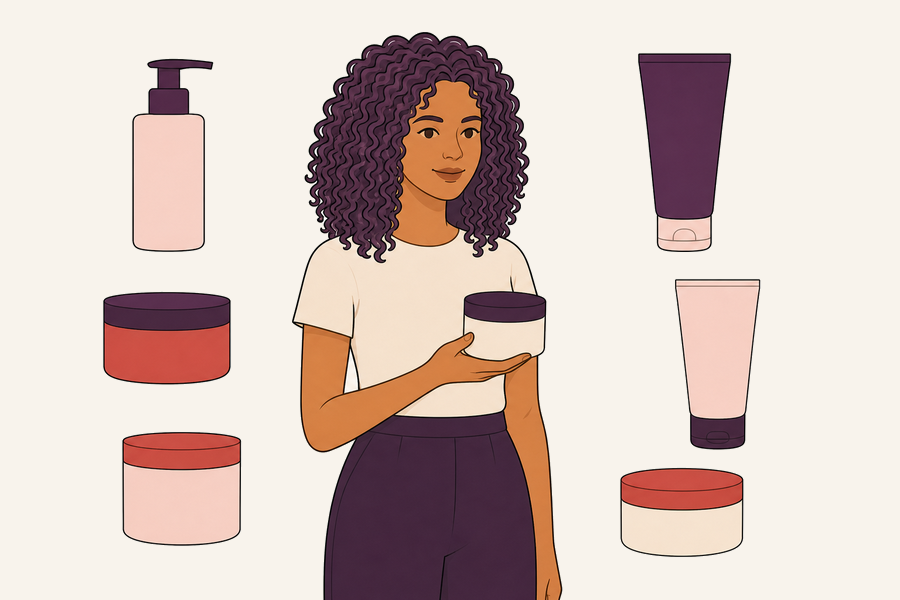
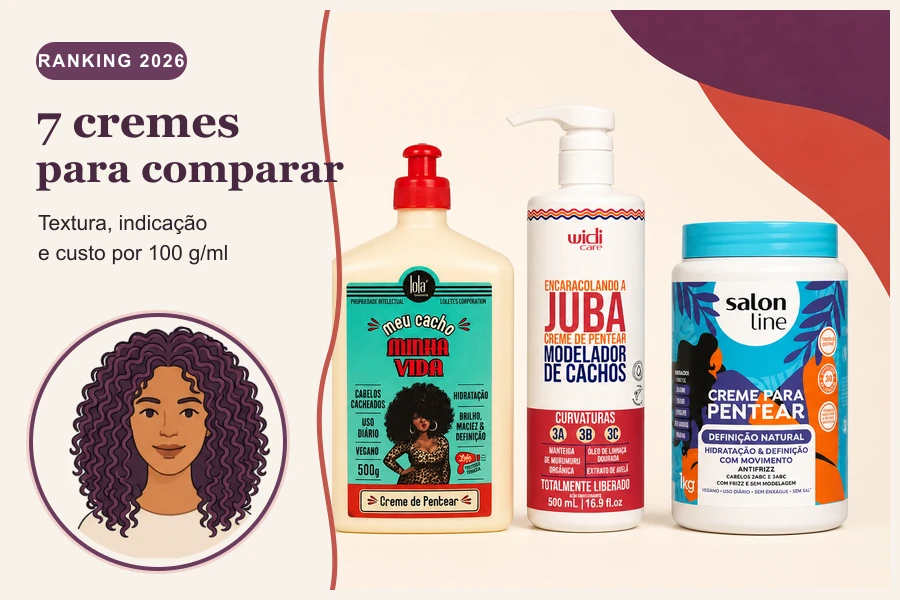
melhora imagens do ranking de cremes

diff --git a/src/data/posts/melhores-cremes-de-pentear-para-cabelo-cacheado.md b/src/data/posts/melhores-cremes-de-pentear-para-cabelo-cacheado.md
@@ -137,7 +137,7 @@ perguntas_frequentes:
 rascunho: false
 ---
 
-![Personagem cacheada da Curva Viva cercada por sete embalagens genéricas de creme de pentear](/ilustracoes/melhores-cremes-de-pentear-para-cabelo-cacheado/capa-ranking-cremes-cacheados.webp)
+![Avatar cacheada da Curva Viva ao lado das embalagens reais de Lola Meu Cacho Minha Vida, Widi Care Encaracolando a Juba e Salon Line Definição Natural](/ilustracoes/melhores-cremes-de-pentear-para-cabelo-cacheado/capa-ranking-cremes-cacheados.webp)
 
 Escolher um creme de pentear parece simples até o cabelo secar. Um produto pode desembaraçar muito bem e deixar os cachos sem sustentação. Outro pode formar mechas bonitas, mas cobrar isso em peso, rigidez ou tempo de secagem. O melhor creme não é, portanto, o pote mais conhecido nem o que reúne mais promessas na frente da embalagem. É o que combina com a espessura do fio, a quantidade de cabelo, o acabamento desejado e a sua disposição para fazer uma finalização mais ou menos detalhada.
 
@@ -175,7 +175,7 @@ Também separamos **gasto inicial** de **custo proporcional**. O Skala de 250 g 
 
 O ranking não usa quantidade de ingredientes como sinônimo de qualidade. Óleo, manteiga, extrato ou proteína ajudam a entender a proposta da fórmula, mas não permitem prever, isoladamente, definição, maciez ou peso. A avaliação mais segura começa na ficha técnica e termina com um teste controlado no próprio cabelo.
 
-![Três consistências de creme, da mais fluida à mais densa, acima de embalagens genéricas](/ilustracoes/melhores-cremes-de-pentear-para-cabelo-cacheado/escala-texturas-creme.webp)
+![Infográfico explica o que observar em cremes de textura leve, média e densa e lembra que textura não garante definição](/ilustracoes/melhores-cremes-de-pentear-para-cabelo-cacheado/escala-texturas-creme.webp)
 
 ## 1. Lola Meu Cacho Minha Vida: melhor equilíbrio geral
 
@@ -251,7 +251,7 @@ Em fios muito densos, uma fórmula direcionada a crespos pode facilitar a escolh
 
 Fio fino costuma revelar excesso cedo: perde volume, demora a secar ou forma mechas com aparência oleosa. Fio grosso pode aceitar mais cobertura, mas isso não obriga a usar um creme denso. Densidade também importa. Muito cabelo aumenta a área de distribuição, enquanto pouco cabelo pode fazer uma pequena porção render bastante.
 
-![Comparação entre fios finos, médios e grossos com uma dose inicial crescente de creme](/ilustracoes/melhores-cremes-de-pentear-para-cabelo-cacheado/quantidade-por-espessura.webp)
+![Infográfico orienta começar com pouco creme em fios finos, médios e grossos, distribuir, esperar secar e ajustar a dose](/ilustracoes/melhores-cremes-de-pentear-para-cabelo-cacheado/quantidade-por-espessura.webp)
 
 Use a ilustração como ponto de partida, não como medidor exato. Separe o cabelo úmido em seções e comece com uma porção pequena em cada uma. Se os dedos travarem ou as pontas continuarem ásperas, acrescente um pouco. Se a mecha ficar coberta por uma camada branca persistente, espalhe melhor antes de colocar mais.
 
@@ -285,7 +285,7 @@ No dia seguinte, observe se o cabelo precisa de água, uma quantidade mínima de
 
 ## Checklist antes de comprar
 
-![Quatro cartões ilustrados representam tamanho, textura, definição e ponto de atenção na escolha do creme](/ilustracoes/melhores-cremes-de-pentear-para-cabelo-cacheado/checklist-compra-creme.webp)
+![Checklist visual orienta conferir nome e tamanho, textura e uso, custo por 100 g ou ml e ponto de atenção antes da compra](/ilustracoes/melhores-cremes-de-pentear-para-cabelo-cacheado/checklist-compra-creme.webp)
 
 1. Confira o nome completo e o tamanho. Linhas com embalagens parecidas podem ter creme, ativador, condicionador e máscara.
 2. Leia a indicação oficial, mas combine-a com espessura e densidade do seu cabelo.

diff --git a/.github/INSTRUCOES-IA.md b/.github/INSTRUCOES-IA.md
@@ -96,6 +96,16 @@ ranking, em Google Imagens e em tempo de permanência.
 - Salvar em `public/ilustracoes/<slug-do-artigo>/`, em `.webp`.
 - **Toda imagem precisa de `alt` descritivo e único.**
 - Largura máxima de 1600 px e peso máximo de 200 KB por imagem.
+- **A imagem precisa ensinar ou ajudar a decidir.** Na revisão, assumir o ponto
+  de vista de uma leitora que ainda não leu o parágrafo: ela deve entender em
+  poucos segundos o que está sendo comparado e por que aquilo importa.
+- Infográfico precisa de título curto, rótulos explícitos e uma conclusão ou
+  ação prática legível no celular. Ícones sem legenda não contam como explicação.
+- Em ranking de produto, usar as embalagens reais sempre que houver imagem
+  autorizada na ficha. Nunca representar recomendações reais com potes genéricos
+  inventados por IA, porque isso reduz clareza e credibilidade.
+- Reprovar arte decorativa, confusa ou com aparência evidente de geração por IA,
+  mesmo que ela esteja tecnicamente correta e dentro da paleta.
 
 **Tudo dentro de `public/` é publicado.** Material de referência interno, folha
 de personagem e arte de trabalho não vão para lá: o lugar deles é
@@ -310,7 +320,9 @@ fontes, preço, imagem e link. Corrigir trecho confuso, repetido ou sem fonte.
 
 **Revisão 2, interesse e leitura.** Confirmar que a pergunta atrai clique
 qualificado. Conferir título, resposta inicial, naturalidade, retenção e leitura
-no celular. Melhorar se estiver robótico, genérico ou comercial demais.
+no celular. Revisar também cada imagem como leitora: sem o contexto do prompt,
+fica claro o que ela explica? Melhorar se estiver robótico, genérico, confuso ou
+comercial demais.
 
 Publicar só quando as duas revisões e todos os testes passarem.
 

diff --git a/HISTORICO.md b/HISTORICO.md
@@ -59,6 +59,10 @@ Não precisam ser rediscutidas, salvo se o proprietário mudar de ideia.
 - **Mercado Livre só pelo Chrome do proprietário.** Pesquisa de oferta, acesso
   à conta de afiliado e geração de link `meli.la` usam exclusivamente o Chrome
   já autenticado. O navegador interno do Codex não deve acessar essa conta.
+- **Imagem de artigo precisa funcionar para a leitora.** Em rankings, usar
+  embalagens reais em vez de produtos genéricos desenhados. Infográficos levam
+  título, rótulos e conclusão prática; arte confusa ou com aparência evidente
+  de IA é reprovada mesmo quando cumpre tamanho e paleta.
 
 ---
 
@@ -91,6 +95,20 @@ Não precisam ser rediscutidas, salvo se o proprietário mudar de ideia.
 ---
 
 ## Mudanças
+
+### 10 de agosto de 2026 — Codex — Imagens do primeiro ranking refeitas
+
+As quatro imagens do ranking de cremes foram revisadas pela ótica da leitora.
+A capa passou a combinar a avatar oficial com as embalagens reais dos três
+destaques, sem potes genéricos. As outras três artes viraram infográficos com
+título, rótulos e orientação prática legível no celular. O feedback virou regra
+do manual editorial para impedir que densidade de imagem seja confundida com
+clareza ou credibilidade.
+
+A revisão factual confirmou a correspondência das três embalagens e a avatar
+canônica; a revisão de leitura conferiu as quatro artes em desktop e celular.
+`pnpm validar`, `pnpm check`, `pnpm build` e `node scripts/revisar-visual.cjs`
+passaram, com o relatório visual em `"aprovado": true`.
 
 ### 10 de agosto de 2026 — Codex — Primeiro ranking publicado
 
